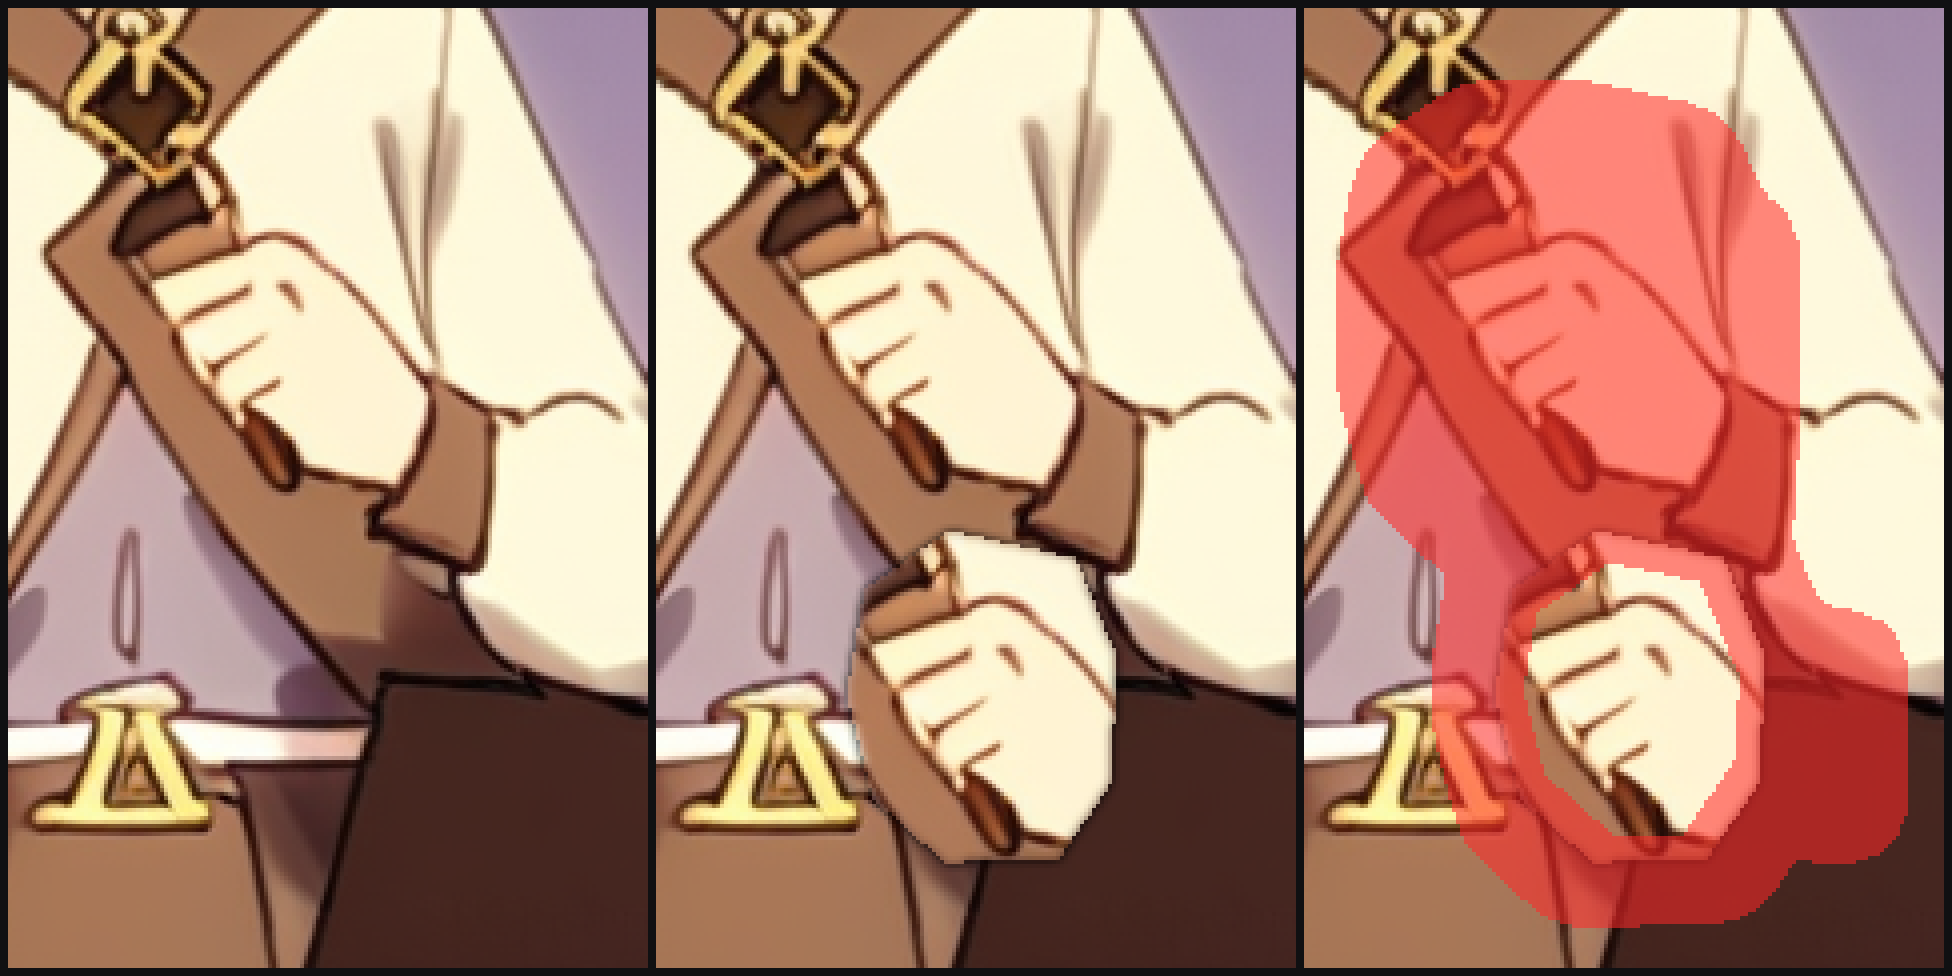
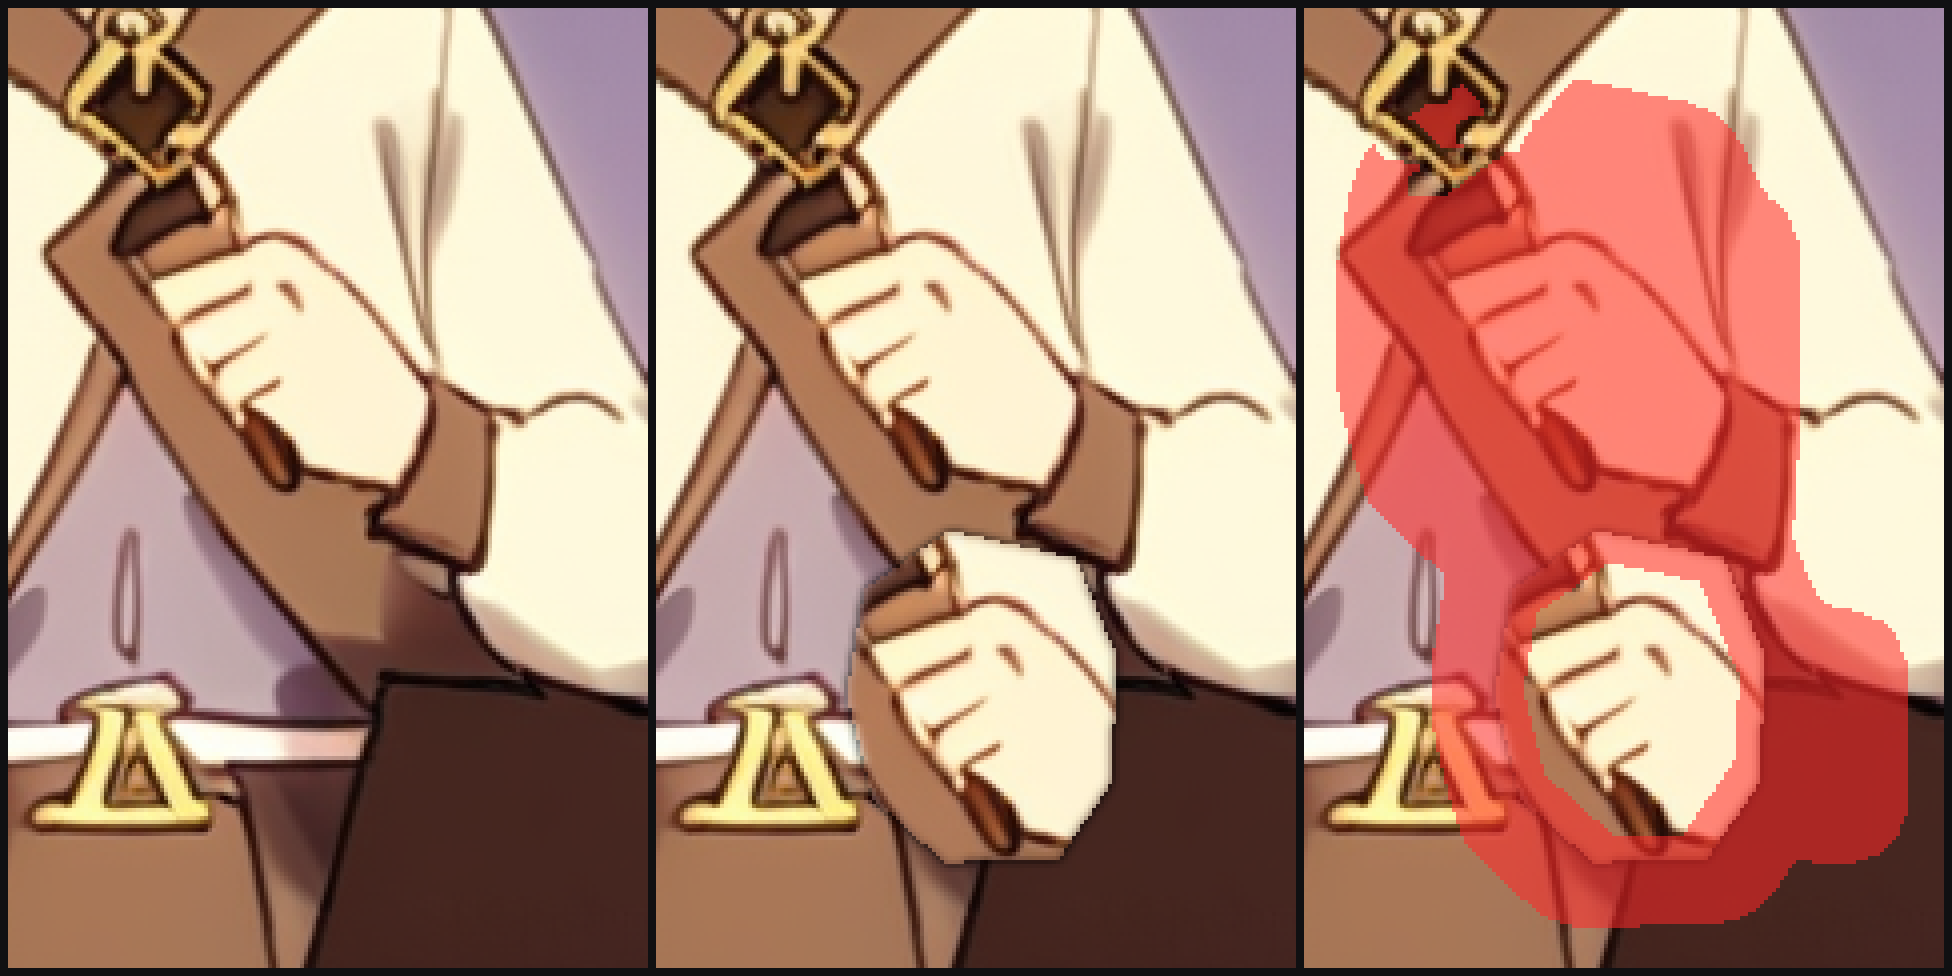
B8's hair is 0 px reachable at any strength, so the clause that blocked this rung was never the one at risk
§21 refused to file the copy-the-fist rung partly because a higher strength
"re-opens the exact clauses (B6, B8, the wardrobe) the 0.30 number was bought
with". Measured rather than assumed: those clauses were bought at the
CONDITIONING scale on a whole-frame txt2img render -- §19's table is --scale2
0.3/0.5/0.8, not a denoise strength -- and a masked pass cannot write a pixel
outside its mask at any strength. So the price is the item's overlap with 1.82%
of the frame, and K15 now prints it: hair 0 of 18200 px, clasp 11 of 994, belt
382 of 5366, sash 108 of 332, shirt 5750 of 28573.

B8 is untouchable. What is genuinely at risk is B6 -- a fifth of the cream shirt
and a third of the sash sit in the forearm corridor -- and that is now a
pre-registered fail mode instead of a discovery.

The clasp carve-out yields where it must: freezing every clasp pixel and giving
the fist its 6 px deletion margin are incompatible where the two objects touch,
so the carve-out is (clasp gold, dilated 2) MINUS that margin. 216 px exposed
uncarved, 11 after, every one of them inside the margin. Stated, not rounded.

Strength 0.55 chosen and argued four ways: 0.30 is twelve of forty steps and is
the regime that PRESERVES structure, which is why it cannot delete an inked
fist; 0.99 would delete it and would also wreck the 12 px contact rim, because
this mask has a hard interior edge no sibling beat's mask had.

Changed region(s): [[0.6875, 0.0615, 0.8125, 0.2152]]

diff --git a/pipeline/beat08_grip_copy.py b/pipeline/beat08_grip_copy.py
@@ -103,10 +103,75 @@ RIM_OUT = 8        # px outside the copy the pass may repaint (contact/occlusion
 RIM_IN = 4         # px inside the copy's outline it may repaint (the closing edge)
 BAND_H = 14        # the board's top-edge contact band
 
+# THE GOLD CHEST CLASP IS HELD OUT OF THE MASK, AS FAR AS IT CAN BE. It sits
+# directly above the fist the pass has to delete, and an unmasked first draft put
+# 21.7% of it inside the mask for no gain: the pass does not need to redraw a
+# landmark in order to draw the strap beneath it, and a distinctive wardrobe
+# object half-inside a mask is how B6 gets re-opened by accident.
+#
+# THE CARVE-OUT IS NOT ABSOLUTE AND THE REASON IS GEOMETRY, NOT TOLERANCE. The
+# clasp and the fist are adjacent objects: freezing every clasp pixel and giving
+# the fist its 6 px of deletion margin are incompatible where they touch. The
+# fist's coverage is the POINT of this rung, so the carve-out YIELDS there --
+# it is (clasp gold, dilated 2) MINUS (the fist's own required margin). What
+# that costs is printed by K15 rather than rounded to zero.
+CLASP_BOX = (555, 490, 605, 545)    # where to look for the clasp's gold, at 6x
+
+STRENGTH = 0.55
 STRENGTH_ARGUMENT = """\
-STRENGTH: pending the (strength x ink) table -- see the job spec. 0.30 is
-ruled out by §21: it is the strength that exists to PRESERVE structure and it
-cannot delete a hand."""
+CHOSEN: 0.55, at 40 steps and cfg 7.5. ONE SAMPLE. The argument, in four parts,
+because §21 refused to let this be a knob turn.
+
+1. WHY NOT 0.30, THE HOUSE DEFAULT (66 of the specs in this tree).
+   `composite-init-pattern.md`: an inpaint pass runs only `int(steps x
+   strength)` of its schedule -- at 40 steps, 0.30 is TWELVE steps. That is
+   the regime chosen precisely because it PRESERVES structure: it is what put
+   blade texture back into beat 03's smooth ramp and leaves into b15/b19's
+   clone fills. Every one of those was ADDITIVE -- a smooth vacancy given
+   texture, or a sprite blended down. NONE of them had to DELETE a fully-inked
+   object with its own dark outline. 0.30 hands the fist twelve steps and a
+   latent that still contains it, and gets a dented fist.
+
+2. WHY NOT 0.99 (the tree's other recorded value, 39 of 40 steps).
+   That is a fresh render inside the mask, and it would certainly delete the
+   fist. It would also destroy the one thing this rung is built around: the
+   12 px rim opened around the copy exists so the pass draws CONTACT against
+   the protected digits, and a band re-rendered from noise does not blend to
+   a neighbour it cannot see -- it draws something unrelated and leaves a hard
+   seam exactly at the protect boundary. High strength is not free here in a
+   way it was not for any sibling beat, because this mask has a hard interior
+   edge those masks did not have.
+
+3. WHY 0.55. Twenty-two of forty steps: most of the way to a fresh draw, from
+   a latent that still carries the composite's colours and the surrounding
+   strap. Above the structure-preserving regime, below a from-noise redraw.
+   It is a choice, not a measurement, and it is filed as ONE SAMPLE for that
+   reason -- the sample's whole job is to find out which side of the deletion
+   threshold it lands on.
+
+4. WHAT IT COSTS AGAINST B6, B8 AND THE WARDROBE -- AND WHY §21'S FEAR IS
+   SMALLER THAN IT LOOKED, MEASURED. §21 warned a higher strength "re-opens
+   the exact clauses (B6, B8, the wardrobe) the 0.30 number was bought with".
+   Those clauses were bought at the CONDITIONING scale (`--scale2`) on a
+   WHOLE-FRAME txt2img render -- §19's table is scale2 0.3/0.5/0.8, not a
+   denoise strength. A MASKED pass cannot write one pixel outside its mask at
+   ANY strength, so the price is not a guess about the knob; it is the item's
+   overlap with 1.82% of the frame, and K15 prints it:
+
+       B8 canon hair          0 of 18200 px reachable  -- 0.0%, at any strength
+       gold chest clasp      11 of   994 px            --  1.1%, all of it
+                                                          inside the fist's own
+                                                          6 px deletion margin
+       gold belt buckle     382 of  5366 px            --  7.1%
+       B6 white sash        108 of   332 px            -- 32.5%
+       B6 cream shirt      5750 of 28573 px            -- 20.1%
+
+   B8 IS UNTOUCHABLE AND THAT WAS THE LOUDEST OF THE THREE. What is genuinely
+   at risk is B6: a fifth of the cream shirt and a third of the white sash sit
+   in the corridor the arm has to be drawn through, and at 0.55 the sampler
+   may merge them the way `--scale2` 0.5 did. That is the real price, it is
+   the reason the corridor was widened knowingly, and it is pre-registered as
+   a named fail mode rather than discovered afterwards."""
 
 
 def _erode(m, r):
@@ -118,6 +183,20 @@ def _erode(m, r):
         im = im.filter(ImageFilter.MinFilter(2 * k + 1))
         r -= k
     return np.asarray(im) > 0
+
+
+def clasp_gold(a, grow=2):
+    """The chest clasp's own gold pixels, dilated -- found, not boxed."""
+    import numpy as np
+    from PIL import Image, ImageFilter
+    R, G, B = (a[:, :, i].astype(int) for i in range(3))
+    g = (R > 150) & (G > 110) & (B < 130) & ((R - B) > 60)
+    x0, y0, x1, y1 = CLASP_BOX
+    z = np.zeros(g.shape, bool)
+    z[y0:y1, x0:x1] = True
+    g = g & z
+    return np.asarray(Image.fromarray((g * 255).astype("uint8")).filter(
+        ImageFilter.MaxFilter(2 * grow + 1))) > 0
 
 
 def capsule(p0, p1, r):
@@ -185,7 +264,8 @@ def build():
     # leak the pass's strength onto the one thing in this rung that cannot be
     # re-invented; the rim above is the blend zone, and it is outside this.
     protect = _erode(np.asarray(poly_mask(moved)) > 0, RIM_IN)
-    mnp = (np.asarray(soft) > 0) & ~protect
+    keep_clasp = clasp_gold(a) & ~(np.asarray(poly_mask(FIST, grow=6)) > 0)
+    mnp = (np.asarray(soft) > 0) & ~protect & ~keep_clasp
     mask = Image.fromarray((mnp * 255).astype(np.uint8))
 
     # The sub-region a landed result is scored on by C4': where the fist WAS.
@@ -328,6 +408,43 @@ def selftest():
     check("K13 the mask is under 4%% of the frame -- it is WIDER than the "
           "parent's by the corridor, and that is the price named up front",
           m["mask_frac"] < 0.04)
+
+    # K15 -- THE WARDROBE PRICE, MEASURED RATHER THAN ASSERTED. §21 refused to
+    # file this rung partly because a higher strength "re-opens the exact
+    # clauses (B6, B8, the wardrobe) the 0.30 number was bought with". That
+    # fear was formed on a WHOLE-FRAME txt2img render where the knob was the
+    # conditioning scale; a MASKED pass cannot write a pixel outside its mask,
+    # whatever its denoise strength, so the price is not a guess about strength
+    # -- it is exactly the item's overlap with 1.88% of the frame. Printed here
+    # so the spec's argument quotes a measurement.
+    lum = a.astype(float).mean(axis=2)
+    Rc, Gc, Bc = a[:, :, 0].astype(int), a[:, :, 1].astype(int), a[:, :, 2].astype(int)
+    gold = (Rc > 150) & (Gc > 110) & (Bc < 130) & ((Rc - Bc) > 60)
+    def box(x0, y0, x1, y1):
+        z = np.zeros((H, W), bool); z[y0:y1, x0:x1] = True; return z
+    items = [
+        ("B8 canon hair (the head)", box(500, 300, 640, 430)),
+        ("gold chest clasp", gold & box(555, 490, 605, 545)),
+        ("gold belt buckle", gold & box(495, 640, 600, 760)),
+        ("B6 white sash", (lum > 225) & (np.abs(Rc - Bc) < 25) & box(380, 655, 700, 700)),
+        ("B6 cream shirt", (lum > 200) & ((Rc - Bc) > 25) & box(380, 430, 720, 670)),
+    ]
+    for nm, it in items:
+        n, inm = int(it.sum()), int((it & mnp).sum())
+        print("     %-26s %6d px, %5d reachable by the pass (%.1f%%)"
+              % (nm, n, inm, 100.0 * inm / max(n, 1)))
+    hair = items[0][1]
+    check("K15 B8's canon hair is UNREACHABLE -- 0 px of the head is in the "
+          "mask, so the clause §21 feared a higher strength would re-open "
+          "cannot move at any strength", not mnp[hair].any())
+    clasp = items[1][1]
+    kept = clasp_gold(a) & ~(np.asarray(poly_mask(FIST, grow=6)) > 0)
+    left = int((clasp & mnp).sum())
+    check("K15 the gold chest clasp is frozen except where the fist's own 6 px "
+          "deletion margin overtakes it -- %d of %d gold px reachable, down "
+          "from 216 uncarved, and every one of them is inside that margin"
+          % (left, int(clasp.sum())),
+          left <= 40 and not (clasp & mnp & kept).any())
 
     # K14 -- the region C4' will score on landing is big enough to be scorable
     import fill_quality as Q
